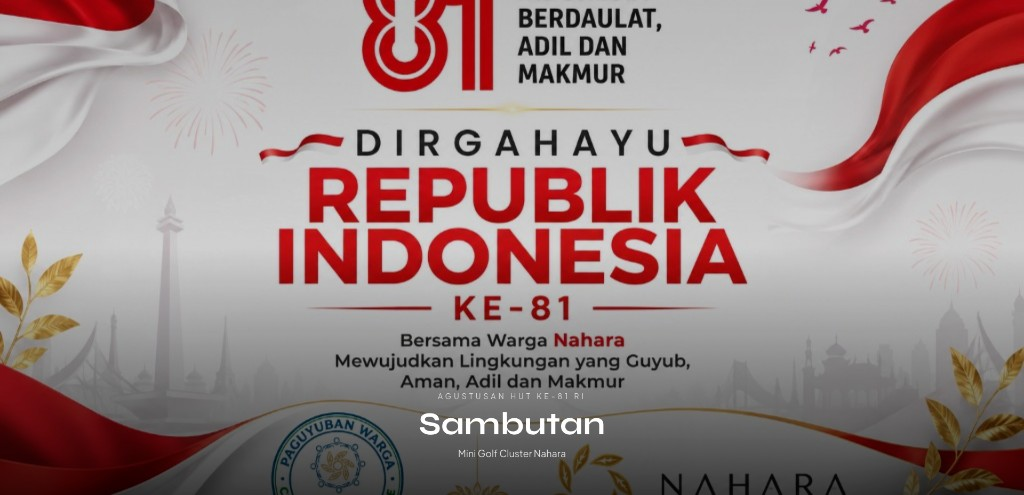
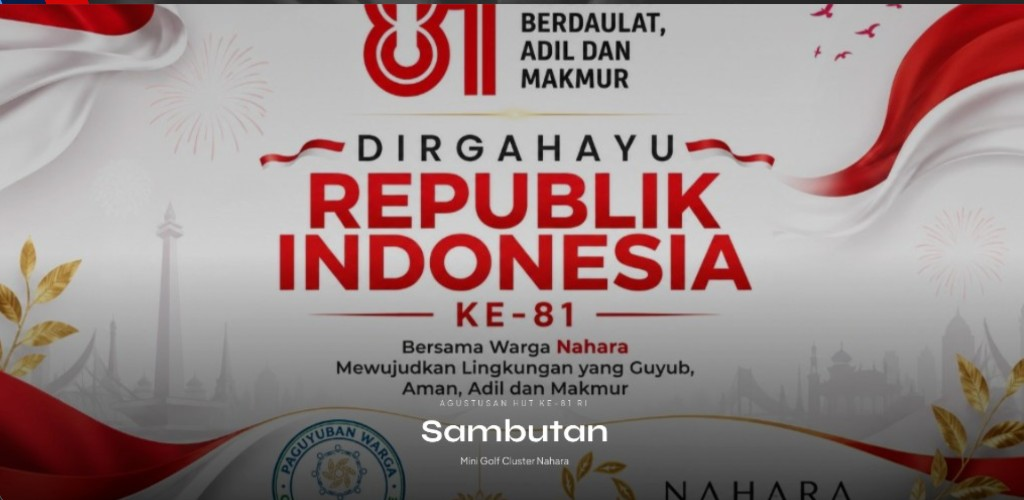
Enhance Malam Puncak components with dynamic backdrop and improved publishing
- Updated MalamPuncakOperator to include cue slotId and title in the publish function.
- Refactored MalamPuncakStage to replace BackdropCoverCarousel with BackdropContainCarousel, adding title and location display.
- Updated backdrop image asset for visual enhancement.

diff --git a/components/agustusan/MalamPuncakStage.tsx b/components/agustusan/MalamPuncakStage.tsx
@@ -1,7 +1,7 @@
 "use client";
 
 import { useCallback, useEffect, useRef, useState } from "react";
-import { AGUSTUSAN_MEDIA } from "@/lib/constants/agustusan";
+import { AGUSTUSAN_MEDIA, PEAK_EVENT } from "@/lib/constants/agustusan";
 import {
   MALAM_PUNCAK_BACKDROP_INTERVAL_MS,
   MALAM_PUNCAK_BACKDROP_SLIDES,
@@ -165,7 +165,10 @@ export function MalamPuncakStage({ year }: { year: number }) {
         </>
       )}
       {(cue.mode === "idle" || missingSrc) && !showVideo && !showAudio && !showEmbed && (
-        <BackdropCoverCarousel />
+        <BackdropContainCarousel
+          title={cue.title}
+          location={PEAK_EVENT.location}
+        />
       )}
       {(mediaError || missingSrc) && cue.mode !== "idle" && (
         <div className="absolute inset-x-0 top-8 z-20 mx-auto max-w-lg rounded-xl bg-black/75 px-6 py-4 text-center text-sm">
@@ -179,7 +182,13 @@ export function MalamPuncakStage({ year }: { year: number }) {
   );
 }
 
-function BackdropCoverCarousel() {
+function BackdropContainCarousel({
+  title,
+  location,
+}: {
+  title: string;
+  location: string;
+}) {
   const [index, setIndex] = useState(0);
 
   useEffect(() => {
@@ -197,11 +206,19 @@ function BackdropCoverCarousel() {
           key={src}
           src={src}
           alt=""
-          className={`absolute inset-0 h-full w-full object-cover transition-opacity duration-1000 ${
+          className={`absolute inset-0 h-full w-full object-contain object-center transition-opacity duration-1000 ${
             i === index ? "opacity-100" : "opacity-0"
           }`}
         />
       ))}
+      <div className="pointer-events-none absolute inset-x-0 bottom-0 z-10 bg-gradient-to-t from-black/75 via-black/35 to-transparent pb-10 pt-28">
+        <p className="px-8 text-center font-display text-4xl font-bold tracking-wide text-white drop-shadow-md md:text-6xl lg:text-7xl">
+          {title}
+        </p>
+        <p className="mt-3 px-8 text-center text-base text-white/90 drop-shadow md:text-xl">
+          {location}
+        </p>
+      </div>
     </div>
   );
 }

diff --git a/components/agustusan/MalamPuncakOperator.tsx b/components/agustusan/MalamPuncakOperator.tsx
@@ -98,7 +98,13 @@ export function MalamPuncakOperator({ year }: { year: number }) {
   }
 
   function stopToLogo() {
-    publish({ ...IDLE_CUE, volume, at: Date.now() });
+    publish({
+      ...IDLE_CUE,
+      slotId: cue.slotId,
+      title: cue.title || IDLE_CUE.title,
+      volume,
+      at: Date.now(),
+    });
   }
 
   function openStage() {
